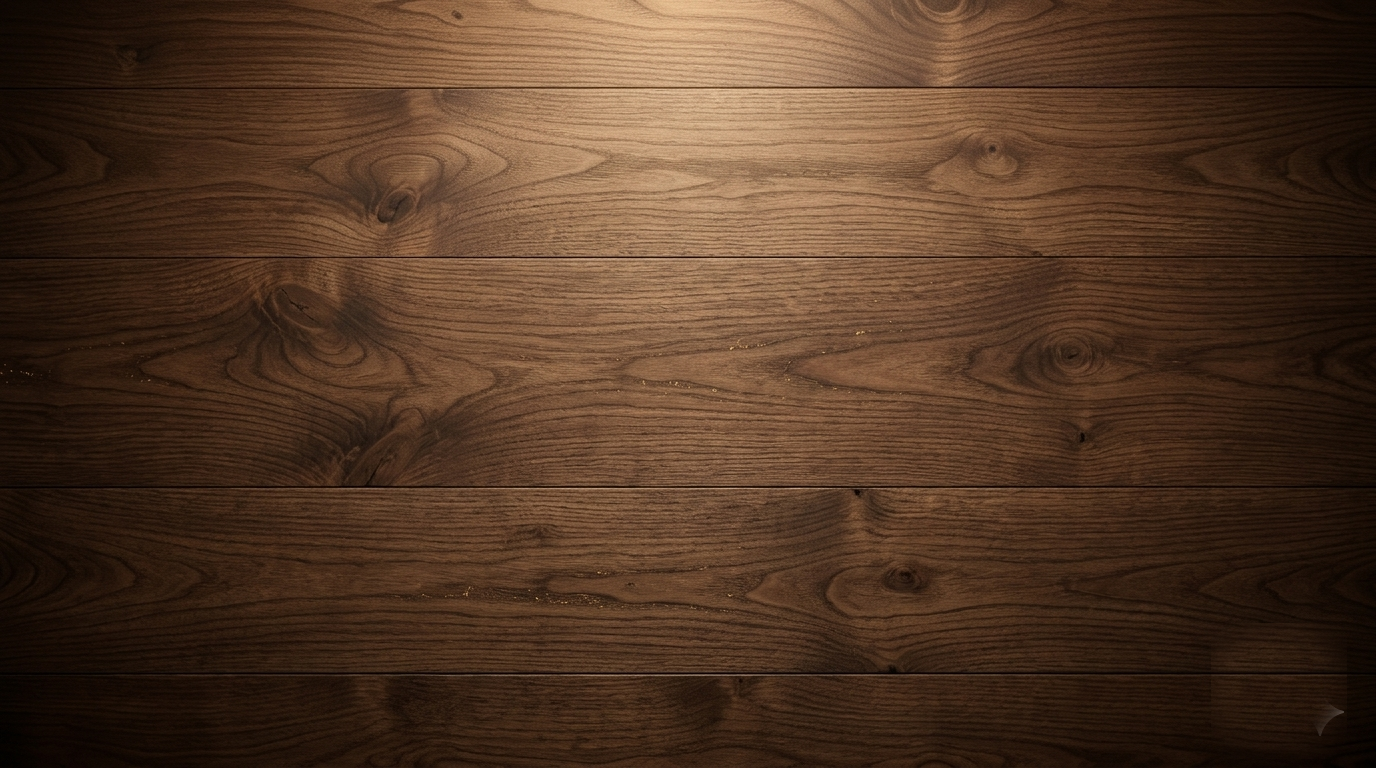
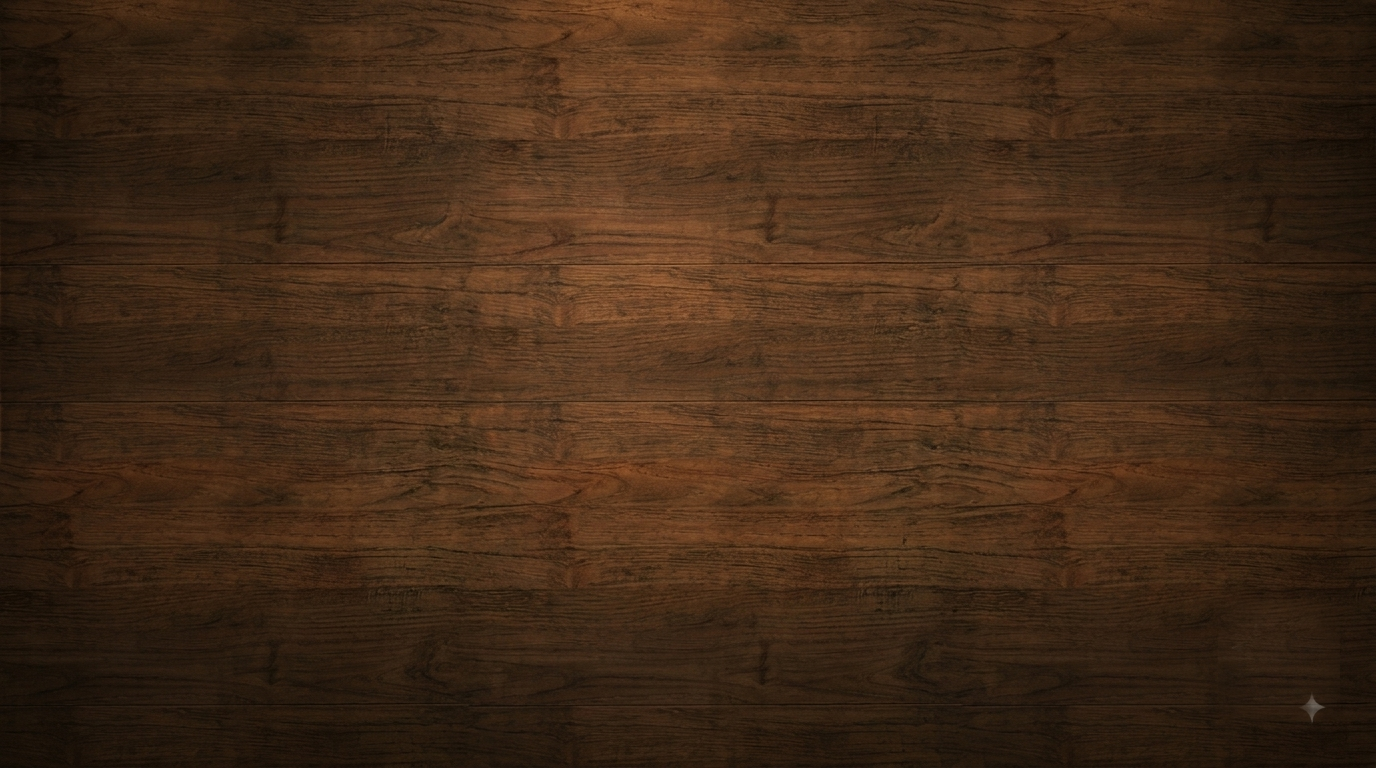
feat: update tarot wood board texture and soften corners
Swap in the chosen wood texture and round the tarot banner to rounded-3xl
for softer corners.

Claude-Session: https://claude.ai/code/session_015i2wM1YZUNxeYjBubrnJWn

diff --git a/src/components/HomePageHanji.tsx b/src/components/HomePageHanji.tsx
@@ -406,7 +406,7 @@ export default function HomePage({ user, nickname, birthProfile, points, onPoint
         <div style={reveal(3)}>
         <button
           onClick={() => onNavigate('tarot')}
-          className="w-full text-left relative overflow-hidden rounded-2xl border border-[#9a6a12]/50 bg-cover bg-center p-6 shadow-[0_4px_18px_rgba(60,40,15,0.35)] active:scale-[0.99] transition-transform"
+          className="w-full text-left relative overflow-hidden rounded-3xl border border-[#9a6a12]/50 bg-cover bg-center p-6 shadow-[0_4px_18px_rgba(60,40,15,0.35)] active:scale-[0.99] transition-transform"
           style={{ backgroundImage: "url('/tarot-wood-bg.png')" }}
         >
           <div className="flex items-center justify-center mb-6 h-32 relative">
